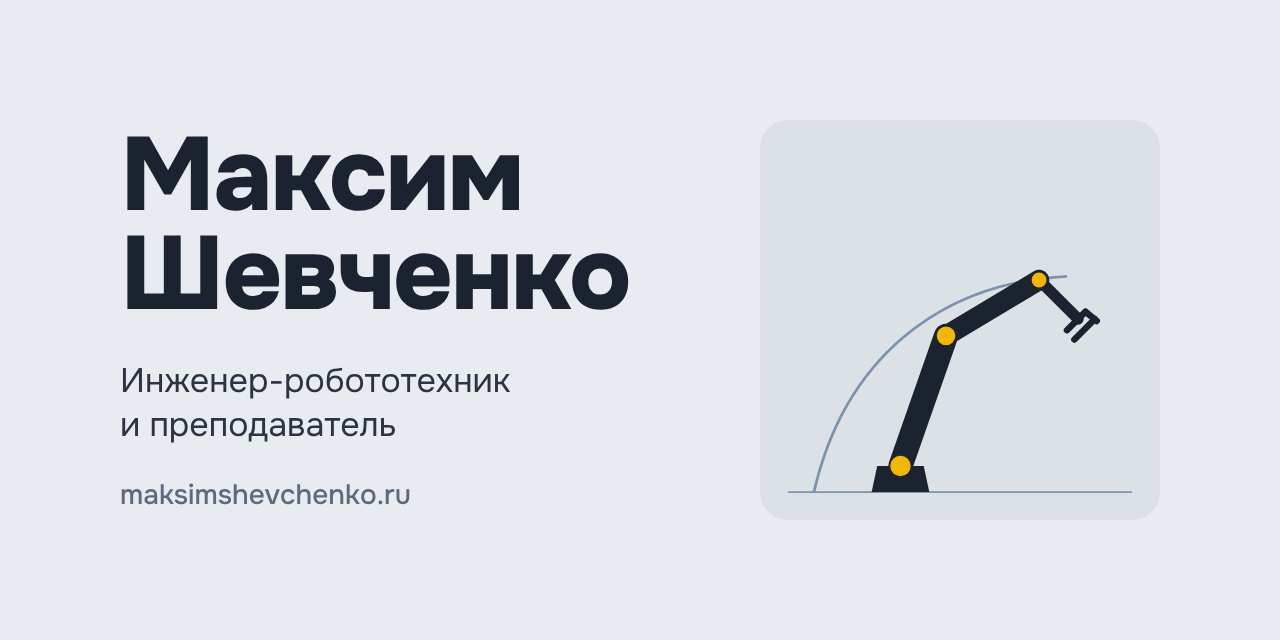
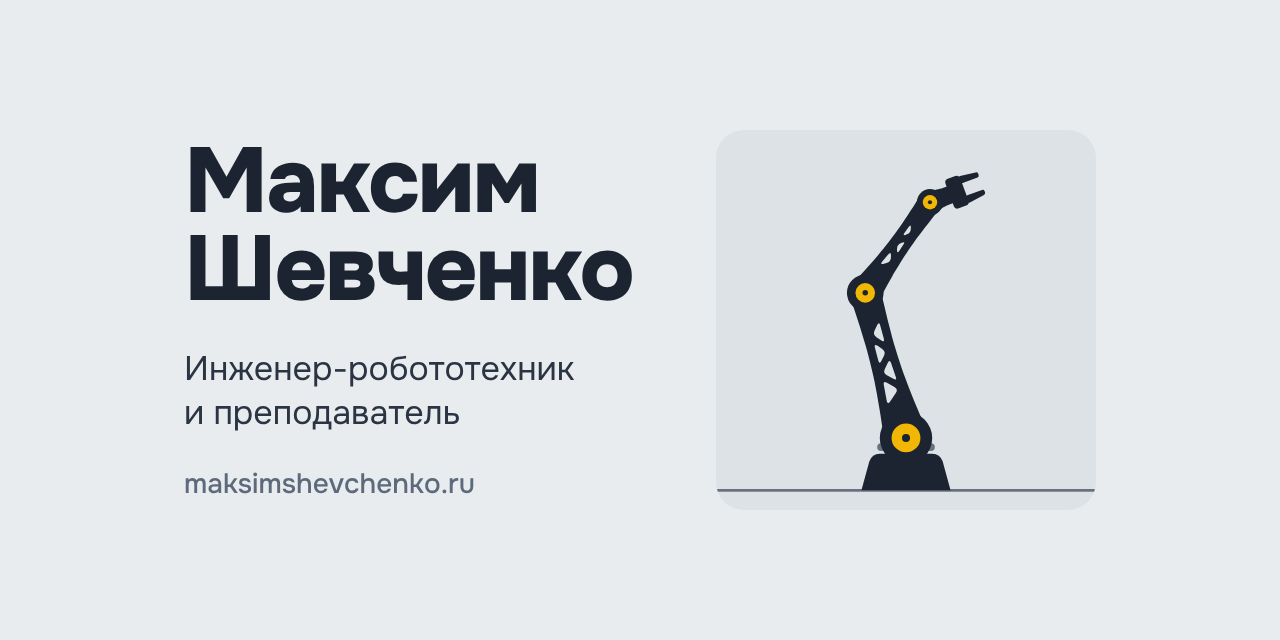
Превью: манипулятор с главной страницы, всё важное в центральной части 3:2

diff --git a/tools/social-preview.html b/tools/social-preview.html
@@ -1,21 +1,27 @@
 <!doctype html><html><head><meta charset="utf-8"><style>
+<!-- Превью репозитория на GitHub, 1280×640. Манипулятор — копия SVG с главной страницы (поза при prefers-reduced-motion). Важное держать в x 184–1096: в настройках GitHub картинка показывается с обрезкой до 3:2. Снимок — скриншот страницы 1280×640 (Playwright). -->
 @font-face{font-family:Onest;src:url(../fonts/onest-cyrillic-wght-normal.woff2) format('woff2');font-weight:100 900;unicode-range:U+0400-04FF}
 @font-face{font-family:Onest;src:url(../fonts/onest-latin-wght-normal.woff2) format('woff2');font-weight:100 900}
 html,body{margin:0}
-body{width:1280px;height:640px;background:#e8ecf0;font-family:Onest;color:#1b2230;position:relative;overflow:hidden}
-.safe{position:absolute;left:120px;top:80px;width:1040px;height:480px;display:flex;align-items:center;justify-content:space-between}
-h1{font-size:104px;line-height:.95;font-weight:800;letter-spacing:-2px;margin:0}
+body{width:1280px;height:640px;background:#e9ecef;font-family:Onest;color:#1B2430;position:relative;overflow:hidden}
+.safe{position:absolute;left:184px;top:80px;width:912px;height:480px;display:flex;align-items:center;justify-content:space-between}
+h1{font-size:92px;line-height:.95;font-weight:800;letter-spacing:-2px;margin:0}
 p{font-size:34px;line-height:1.3;margin:34px 0 0;color:#2b3443}
 .url{font-size:28px;color:#5d6a7c;margin-top:30px;font-weight:500}
-.panel{width:400px;height:400px;border-radius:28px;background:#dce1e6;flex:none}
+.panel{width:380px;height:380px;border-radius:28px;background:#dde2e6;flex:none;display:flex;align-items:flex-end;overflow:hidden}.armsvg{width:380px;height:380px;display:block}
 </style></head><body><div class="safe"><div>
 <h1>Максим<br>Шевченко</h1><p>Инженер-робототехник<br>и преподаватель</p><div class="url">maksimshevchenko.ru</div></div>
-<svg class="panel" viewBox="0 0 430 430"><path d="M58 400 C 90 260, 190 175, 330 168" fill="none" stroke="#7d93ad" stroke-width="3"/>
-<line x1="30" y1="400" x2="400" y2="400" stroke="#7d93ad" stroke-width="2"/>
-<polygon points="120,400 182,400 176,372 126,372" fill="#1b2230"/>
-<line x1="151" y1="372" x2="200" y2="232" stroke="#1b2230" stroke-width="26" stroke-linecap="round"/>
-<line x1="200" y1="232" x2="300" y2="172" stroke="#1b2230" stroke-width="22" stroke-linecap="round"/>
-<line x1="300" y1="172" x2="342" y2="214" stroke="#1b2230" stroke-width="12" stroke-linecap="round"/>
-<path d="M330 226 L350 206 M338 236 L360 214 M350 206 L362 216" stroke="#1b2230" stroke-width="7" stroke-linecap="round" fill="none"/>
-<circle cx="151" cy="372" r="11" fill="#f2b705"/><circle cx="200" cy="232" r="10" fill="#f2b705"/><circle cx="300" cy="172" r="8" fill="#f2b705"/>
-</svg></div></body></html>
+<div class="panel"><svg class="armsvg" viewBox="115 165 290 290" xmlns="http://www.w3.org/2000/svg">
+<g fill="none">
+
+
+
+<line stroke="#66737F" stroke-width="2" x1="40" x2="480" y1="440" y2="440"></line>
+
+
+
+
+<g id="armg" style="transition: opacity 0.22s; opacity: 1;"><path d="M226 440 L232 418 Q234 412 240 412 L280 412 Q286 412 288 418 L294 440 Z" fill="#1B2430"></path><rect x="238" y="404" width="44" height="6" rx="3" fill="#66737F"></rect><g transform="translate(260.00 400.00) rotate(-105.69)"><path d="M0 -17L4.8 -16.3L9.6 -15.7L14.4 -15.0L19.2 -14.4L24.0 -13.8L28.8 -13.3L33.5 -12.8L38.3 -12.3L43.1 -11.9L47.9 -11.5L52.7 -11.2L57.5 -11.0L62.3 -10.8L67.1 -10.7L71.9 -10.6L76.7 -10.6L81.5 -10.7L86.3 -10.8L91.0 -10.9L95.8 -11.1L100.6 -11.3L105.4 -11.5L110.2 -11.8L115.0 -12.0A12 12 0 0 1 115 12L110.2 11.8L105.4 11.5L100.6 11.3L95.8 11.1L91.0 10.9L86.3 10.8L81.5 10.7L76.7 10.6L71.9 10.6L67.1 10.7L62.3 10.8L57.5 11.0L52.7 11.2L47.9 11.5L43.1 11.9L38.3 12.3L33.5 12.8L28.8 13.3L24.0 13.8L19.2 14.4L14.4 15.0L9.6 15.7L4.8 16.3L0.0 17.0A17 17 0 0 1 0 -17ZM31.3 -6.5Q27.8 -6.8 30.1 -4.1L35.1 1.8Q37.4 4.5 39.8 2.0L44.4 -2.6Q46.9 -5.1 43.4 -5.4ZM47.1 5.1Q43.6 5.3 46.0 2.9L50.0 -1.1Q52.5 -3.6 55.1 -1.3L58.8 2.0Q61.4 4.3 57.9 4.5ZM62.6 -4.4Q59.1 -4.4 61.7 -2.1L65.0 0.8Q67.6 3.2 70.3 0.9L73.5 -1.8Q76.2 -4.1 72.7 -4.2ZM77.7 4.2Q74.2 4.1 76.9 1.8L80.1 -0.9Q82.8 -3.2 85.4 -0.9L88.7 2.0Q91.3 4.4 87.8 4.3Z" fill="#1B2430" fill-rule="evenodd"></path></g><g transform="translate(228.90 289.29) rotate(-54.45)"><path d="M0 -12L3.5 -11.5L7.1 -11.1L10.6 -10.7L14.2 -10.3L17.7 -9.9L21.3 -9.5L24.8 -9.1L28.3 -8.8L31.9 -8.6L35.4 -8.3L39.0 -8.1L42.5 -8.0L46.0 -7.9L49.6 -7.8L53.1 -7.8L56.7 -7.8L60.2 -7.9L63.8 -8.0L67.3 -8.1L70.8 -8.3L74.4 -8.4L77.9 -8.6L81.5 -8.8L85.0 -9.0A9 9 0 0 1 85 9L81.5 8.8L77.9 8.6L74.4 8.4L70.8 8.3L67.3 8.1L63.8 8.0L60.2 7.9L56.7 7.8L53.1 7.8L49.6 7.8L46.0 7.9L42.5 8.0L39.0 8.1L35.4 8.3L31.9 8.6L28.3 8.8L24.8 9.1L21.3 9.5L17.7 9.9L14.2 10.3L10.6 10.7L7.1 11.1L3.5 11.5L0.0 12.0A12 12 0 0 1 0 -12ZM27.2 -3.3Q23.7 -3.6 26.4 -1.3L28.0 -0.0Q30.6 2.2 33.5 0.2L34.6 -0.6Q37.5 -2.6 34.0 -2.8ZM41.3 2.5Q38.0 2.6 40.7 0.7L41.4 0.2Q44.1 -1.6 46.8 0.1L47.4 0.5Q50.1 2.2 46.9 2.3ZM54.7 -2.2Q51.6 -2.2 54.2 -0.5L54.8 -0.1Q57.5 1.6 60.1 -0.2L60.7 -0.6Q63.4 -2.3 60.2 -2.3Z" fill="#1B2430" fill-rule="evenodd"></path></g><g transform="translate(278.31 220.12) rotate(-20.37)"><path d="M0 -9L0.8 -8.8L1.7 -8.6L2.5 -8.4L3.3 -8.2L4.2 -8.0L5.0 -7.8L5.8 -7.6L6.7 -7.5L7.5 -7.3L8.3 -7.2L9.2 -7.1L10.0 -7.0L10.8 -6.9L11.7 -6.9L12.5 -6.8L13.3 -6.8L14.2 -6.8L15.0 -6.8L15.8 -6.8L16.7 -6.8L17.5 -6.9L18.3 -6.9L19.2 -7.0L20.0 -7.0A7 7 0 0 1 20 7L19.2 7.0L18.3 6.9L17.5 6.9L16.7 6.8L15.8 6.8L15.0 6.8L14.2 6.8L13.3 6.8L12.5 6.8L11.7 6.9L10.8 6.9L10.0 7.0L9.2 7.1L8.3 7.2L7.5 7.3L6.7 7.5L5.8 7.6L5.0 7.8L4.2 8.0L3.3 8.2L2.5 8.4L1.7 8.6L0.8 8.8L0.0 9.0A9 9 0 0 1 0 -9Z" fill="#1B2430"></path><path d="M16.0 -9.0Q16.0 -12.0 19.0 -12.0L25.0 -12.0Q28.0 -12.0 28.0 -9.0L28.0 9.0Q28.0 12.0 25.0 12.0L19.0 12.0Q16.0 12.0 16.0 9.0Z" fill="#1B2430"></path><path d="M27.0 -9.5Q27.0 -11.0 28.5 -10.8L40.5 -9.2Q42.0 -9.0 42.0 -7.5L42.0 -6.5Q42.0 -5.0 40.5 -5.0L28.5 -5.0Q27.0 -5.0 27.0 -6.5Z" fill="#1B2430"></path><path d="M27.0 9.5Q27.0 11.0 28.5 10.8L40.5 9.2Q42.0 9.0 42.0 7.5L42.0 6.5Q42.0 5.0 40.5 5.0L28.5 5.0Q27.0 5.0 27.0 6.5Z" fill="#1B2430"></path></g><g transform="translate(260.00 400.00) rotate(0.00)"><circle r="20" fill="#1B2430"></circle><circle id="j1" r="11" fill="#F2B705"></circle><circle r="3.08" fill="#1B2430"></circle></g><g transform="translate(228.90 289.29) rotate(0.00)"><circle r="14" fill="#1B2430"></circle><circle id="j2" r="7.5" fill="#F2B705"></circle><circle r="2.1" fill="#1B2430"></circle></g><g transform="translate(278.31 220.12) rotate(0.00)"><circle r="10" fill="#1B2430"></circle><circle id="j3" r="5.5" fill="#F2B705"></circle><circle r="1.6" fill="#1B2430"></circle></g><g class="gauge" transform="translate(260.00 400.00) rotate(0.00)" style="display: none;"><path d="M25.37 -9.23A27 27 0 0 0 24.24 -11.88" stroke="var(--z-r)" stroke-width="3" stroke-linecap="butt" fill="none" opacity="0.9"></path><path d="M23.86 -12.63A27 27 0 0 0 18.38 -19.78" stroke="var(--z-y)" stroke-width="3" stroke-linecap="butt" fill="none" opacity="0.9"></path><path d="M17.75 -20.34A27 27 0 0 0 -17.75 -20.34" stroke="#F2B705" stroke-width="3" stroke-linecap="butt" fill="none" opacity="0.45"></path><path d="M-18.38 -19.78A27 27 0 0 0 -23.86 -12.63" stroke="var(--z-y)" stroke-width="3" stroke-linecap="butt" fill="none" opacity="0.9"></path><path d="M-24.24 -11.88A27 27 0 0 0 -25.37 -9.23" stroke="var(--z-r)" stroke-width="3" stroke-linecap="butt" fill="none" opacity="0.9"></path><line x1="22.08" y1="-8.04" x2="28.66" y2="-10.43" stroke="#1B2430" stroke-width="1.6" stroke-linecap="round"></line><line x1="-22.08" y1="-8.04" x2="-28.66" y2="-10.43" stroke="#1B2430" stroke-width="1.6" stroke-linecap="round"></line><path d="M35 0L23 -3.6Q21 0 23 3.6Z" fill="#F2B705" stroke="#1B2430" stroke-width="1.3" stroke-linejoin="round" transform="rotate(-105.69)"></path></g><g class="gauge" transform="translate(228.90 289.29) rotate(-105.69)" style="display: none;"><path d="M-13.50 16.09A21 21 0 0 0 -9.91 18.52" stroke="var(--z-r)" stroke-width="3" stroke-linecap="butt" fill="none" opacity="0.9"></path><path d="M-9.16 18.90A21 21 0 0 0 3.96 20.62" stroke="var(--z-y)" stroke-width="3" stroke-linecap="butt" fill="none" opacity="0.9"></path><path d="M4.77 20.45A21 21 0 0 0 4.77 -20.45" stroke="#F2B705" stroke-width="3" stroke-linecap="butt" fill="none" opacity="0.45"></path><path d="M3.96 -20.62A21 21 0 0 0 -9.16 -18.90" stroke="var(--z-y)" stroke-width="3" stroke-linecap="butt" fill="none" opacity="0.9"></path><path d="M-9.91 -18.52A21 21 0 0 0 -13.50 -16.09" stroke="var(--z-r)" stroke-width="3" stroke-linecap="butt" fill="none" opacity="0.9"></path><line x1="-11.25" y1="13.41" x2="-15.75" y2="18.77" stroke="#1B2430" stroke-width="1.6" stroke-linecap="round"></line><line x1="-11.25" y1="-13.41" x2="-15.75" y2="-18.77" stroke="#1B2430" stroke-width="1.6" stroke-linecap="round"></line><path d="M29 0L17 -3.6Q15 0 17 3.6Z" fill="#F2B705" stroke="#1B2430" stroke-width="1.3" stroke-linejoin="round" transform="rotate(51.24)"></path></g><g class="gauge" transform="translate(278.31 220.12) rotate(-54.45)" style="display: none;"><path d="M-8.00 13.86A16 16 0 0 0 -5.26 15.11" stroke="var(--z-r)" stroke-width="3" stroke-linecap="butt" fill="none" opacity="0.9"></path><path d="M-4.62 15.32A16 16 0 0 0 4.62 15.32" stroke="var(--z-y)" stroke-width="3" stroke-linecap="butt" fill="none" opacity="0.9"></path><path d="M5.26 15.11A16 16 0 0 0 5.26 -15.11" stroke="#F2B705" stroke-width="3" stroke-linecap="butt" fill="none" opacity="0.45"></path><path d="M4.62 -15.32A16 16 0 0 0 -4.62 -15.32" stroke="var(--z-y)" stroke-width="3" stroke-linecap="butt" fill="none" opacity="0.9"></path><path d="M-5.26 -15.11A16 16 0 0 0 -8.00 -13.86" stroke="var(--z-r)" stroke-width="3" stroke-linecap="butt" fill="none" opacity="0.9"></path><line x1="-6.25" y1="10.83" x2="-9.75" y2="16.89" stroke="#1B2430" stroke-width="1.6" stroke-linecap="round"></line><line x1="-6.25" y1="-10.83" x2="-9.75" y2="-16.89" stroke="#1B2430" stroke-width="1.6" stroke-linecap="round"></line><path d="M24 0L12 -3.6Q10 0 12 3.6Z" fill="#F2B705" stroke="#1B2430" stroke-width="1.3" stroke-linejoin="round" transform="rotate(34.08)"></path></g></g>
+
+</g>
+</svg></div></div></body></html>
